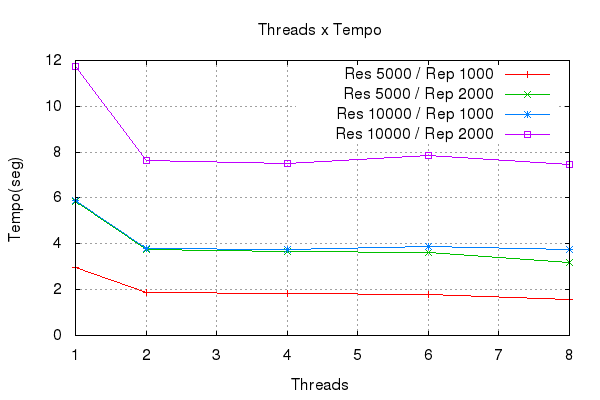
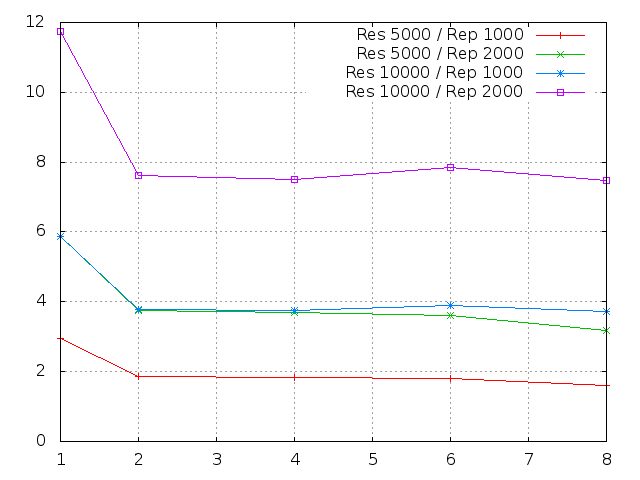
Parte 2 pronta.

diff --git a/trabalhos/t3/openmp/dotprod_openmp.c b/trabalhos/t3/openmp/dotprod_openmp.c
@@ -1,0 +1,72 @@
+#include <omp.h>
+#include <stdio.h>
+#include <time.h>
+#include <stdlib.h>
+
+/*
+ * Tempo (wallclock) em microssegundos
+ */ 
+long wtime()
+{
+   struct timeval t;
+   gettimeofday(&t, NULL);
+   return t.tv_sec*1000000 + t.tv_usec;
+}
+
+/*
+ * Preenche vetor
+ */ 
+void fill(double *a, int size, double value)
+{  
+   int i;
+   for (i = 0; i < size; i++) {
+      a[i] = value;
+   }
+}
+
+int main(int argc, char **argv) 
+{
+	int nthreads, wsize, repeat, k, i;
+	long start_time, end_time;
+   
+   	//Vetores e soma
+	double *a, *b, c = 0.0;
+
+	//Args
+	if ((argc != 4)) {
+		printf("Uso: %s <nthreads> <worksize> <repetitions>\n", argv[0]);
+		exit(EXIT_FAILURE);
+	}
+
+   	nthreads = atoi(argv[1]); 
+   	wsize = atoi(argv[2]);  // worksize = tamanho do vetor de cada thread
+   	repeat = atoi(argv[3]);
+
+   	//Seta quantidade de threads para nthreads
+   	omp_set_num_threads(nthreads);
+
+   	//Aloca vetores a e b e preenche eles
+	a = (double *) malloc(wsize*nthreads*sizeof(double));
+	fill(a, wsize*nthreads, 0.01);
+	
+	b = (double *) malloc(wsize*nthreads*sizeof(double));
+	fill(b, wsize*nthreads, 1.0);
+	
+	start_time = wtime();
+	//Apenas o laço interno é dividido entre threads
+	for (k = 0; k < repeat; k++) {
+	  		c = 0.0;
+    		#pragma omp parallel for private(i) shared (a,b) reduction(+:c)
+    		for (i = 0; i < wsize*nthreads; i++)  {
+        			c += (a[i] * b[i]);
+        		}
+
+    	}
+	end_time = wtime();
+   	
+   	printf("%f\n", c);
+   	printf("%d thread(s), %ld usec\n", nthreads, (long) (end_time - start_time));
+
+  return 0;
+}
+

diff --git a/trabalhos/t3/openmp/ompsimple.c b/trabalhos/t3/openmp/ompsimple.c
@@ -1,25 +1,9 @@
 #include <omp.h>
 #include <stdio.h>
-#define N 100000
 
 int main() 
 {
-	int a[N], b[N], c[N];
-	int i;
-
-	for (i = 0; i < N; i++)
-	{
-		a[i] = b[i] = i; 
-	}
-
-  #pragma omp parallel for shared(a,b,c) private (i)
-	for (i = 0; i < N; ++i)
-	{
-		c[i] = a[i] + b[i];
-		printf("%d ", c[i]);
-	}
-
-
+  #pragma omp parallel
+  printf("Hello World\n");
   return 0;
 }
-

diff --git a/trabalhos/t3/Entrega.md b/trabalhos/t3/Entrega.md
@@ -1,5 +1,5 @@
-Nome: Leonardo Marcuzzo\
-Matrícula: 201130409\
+Nome: Leonardo Marcuzzo
+Matrícula: 201130409
 E-mail: lmarcuzzo@inf.ufsm.br
 
 ## Questões Pthreads
@@ -58,3 +58,14 @@ No caso do meu notebook, que possui dois cores, a resposta é não, como se pode
 **5. Explique as diferenças entre [pthreads_dotprod.c](pthreads_dotprod/pthreads_dotprod.c) e [pthreads_dotprod2.c](pthreads_dotprod/pthreads_dotprod2.c). Com as linhas removidas, o programa está correto?**
 
 Não, as linhas removidas servem para dar lock na variável e garantir que apenas uma thread esteja usando a variável no momento. Sem isso, é possível que outra thread use a variável enquanto ela já esta sendo usada, o que pode ocasionar erros.
+
+============================================================================================================================================================================
+**1. Implemente um programa equivalente a [pthreads_dotprod.c](pthreads_dotprod/pthreads_dotprod.c) usando OpenMP.** 
+
+A implementação está em [dotprod_openmp.c](openmp/dotprod_openmp.c)
+
+2. Avalie o desempenho do programa em OpenMP, usando os mesmos dados/argumentos do programa com threads POSIX.
+
+![](grafico2.png)
+
+O desempenho do programa em OpenMP é parecido com o desempenho da implementação com pthreads.
